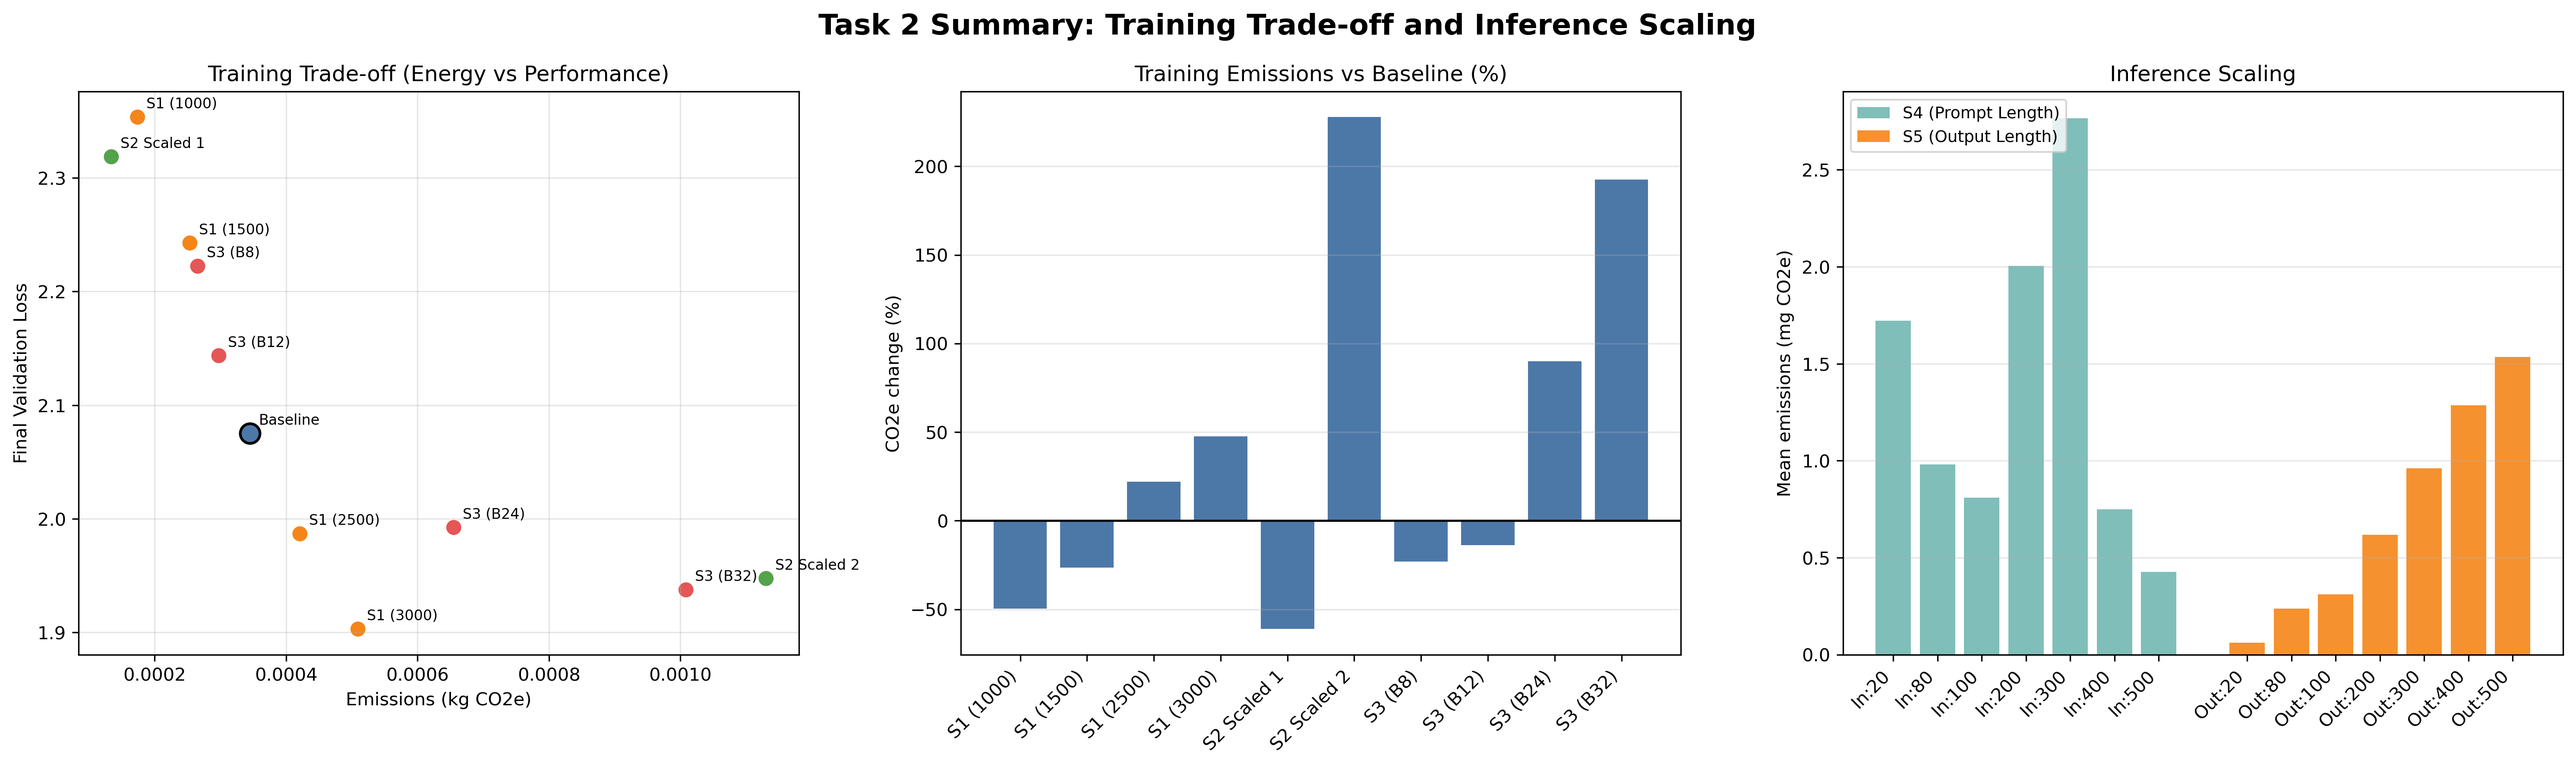
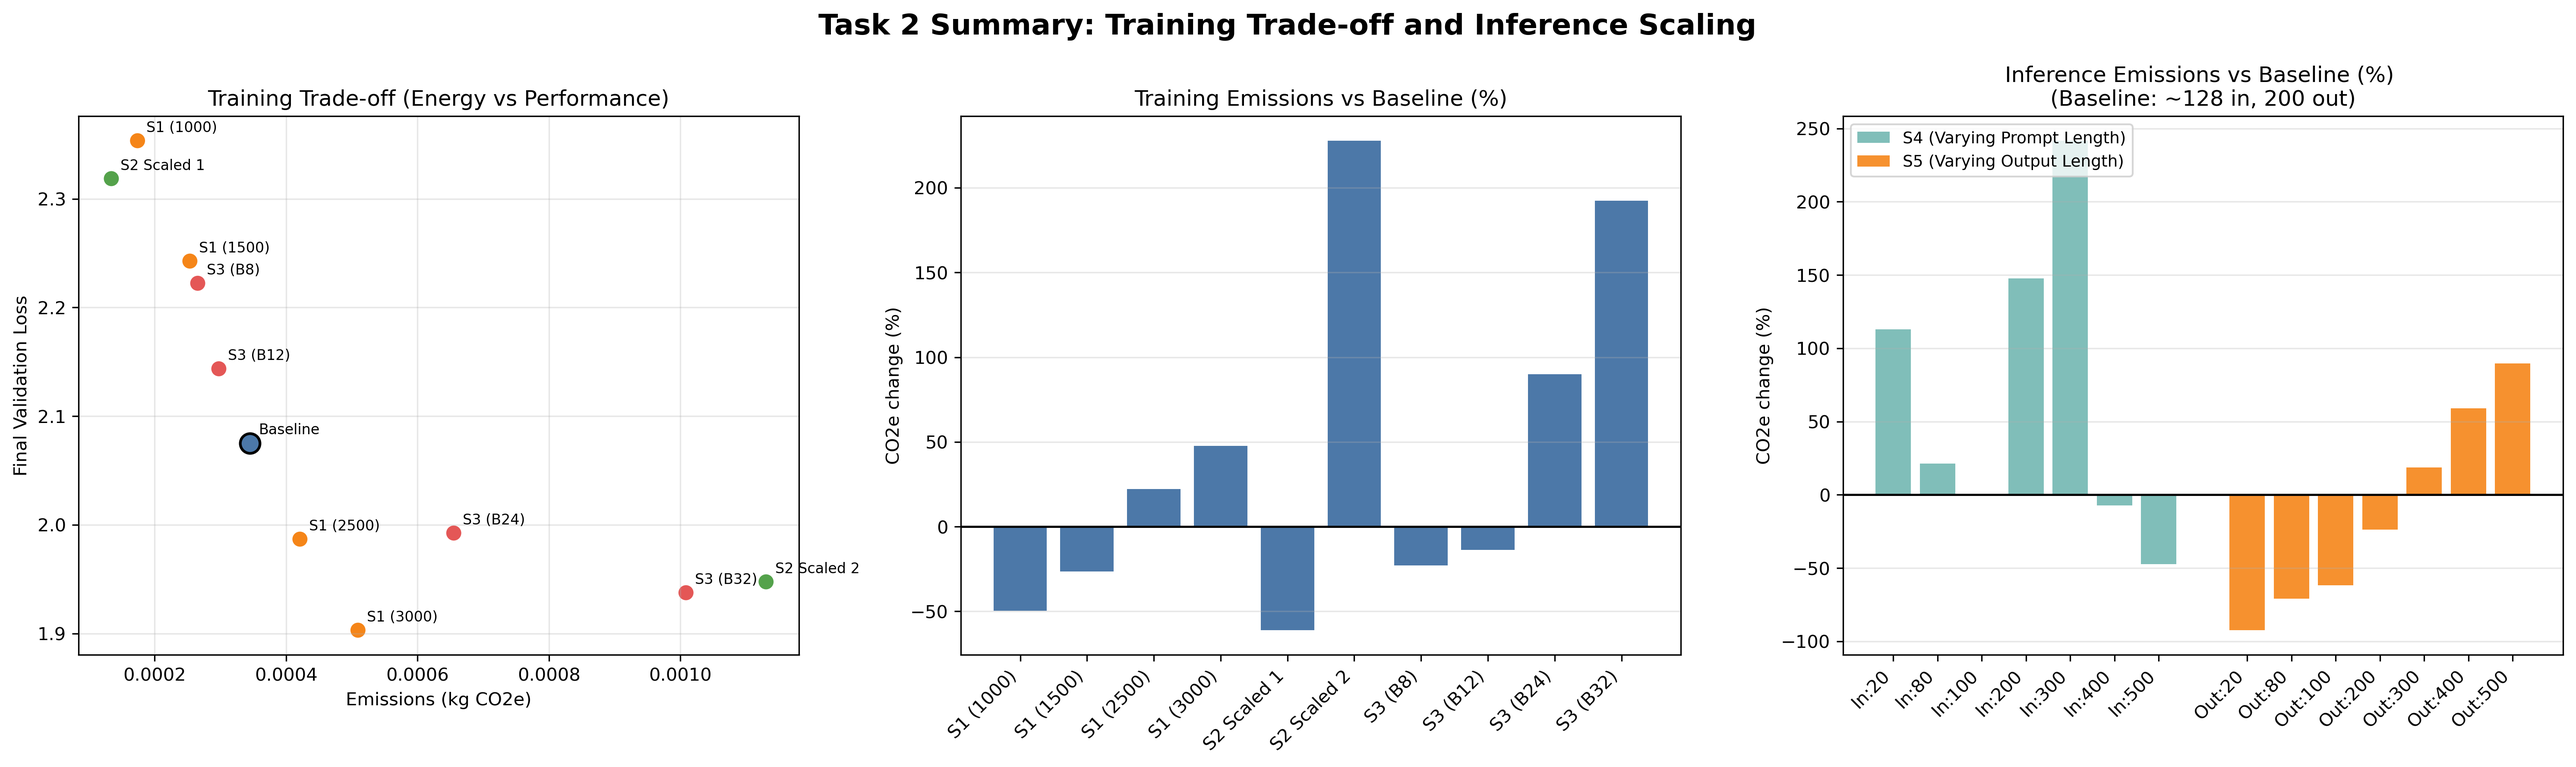
plots comparing with baseline

diff --git a/src/plot_results.py b/src/plot_results.py
@@ -124,12 +124,14 @@ def aggregate_inference(rows: List[dict], scenario_name: str, x_field: str) -> L
     return aggregates
 
 def make_plot(curves, metrics, scenario4, scenario5, output_img):
-    baseline = next((m for m in metrics if m.scenario == "baseline"), None)
+    baseline_train = next((m for m in metrics if m.scenario == "baseline"), None)
     
     fig, axes = plt.subplots(1, 3, figsize=(20, 6))
     fig.suptitle("Task 2 Summary: Training Trade-off and Inference Scaling", fontsize=16, fontweight='bold')
 
+    # ---------------------------------------------------------
     # 1) Training trade-off
+    # ---------------------------------------------------------
     ax = axes[0]
     metric_map = {m.scenario: m for m in metrics}
     for scenario in [s for s in SCENARIOS if s in metric_map]:
@@ -144,13 +146,15 @@ def make_plot(curves, metrics, scenario4, scenario5, output_img):
     ax.set_ylabel("Final Validation Loss")
     ax.grid(alpha=0.3)
 
+    # ---------------------------------------------------------
     # 2) Relative training change
+    # ---------------------------------------------------------
     ax = axes[1]
-    if baseline:
+    if baseline_train:
         labels, deltas = [], []
         for scenario in [s for s in SCENARIOS if s in metric_map and s != "baseline"]:
             labels.append(SCENARIO_LABELS[scenario])
-            deltas.append(100.0 * (metric_map[scenario].emissions_kg - baseline.emissions_kg) / baseline.emissions_kg)
+            deltas.append(100.0 * (metric_map[scenario].emissions_kg - baseline_train.emissions_kg) / baseline_train.emissions_kg)
         ax.bar(range(len(labels)), deltas, color="#4C78A8")
         ax.set_xticks(range(len(labels)))
         ax.set_xticklabels(labels, rotation=45, ha='right')
@@ -159,21 +163,33 @@ def make_plot(curves, metrics, scenario4, scenario5, output_img):
         ax.set_ylabel("CO2e change (%)")
         ax.grid(axis="y", alpha=0.3)
 
-    # 3) Inference scaling
+    # ---------------------------------------------------------
+    # 3) Relative Inference scaling
+    # ---------------------------------------------------------
     ax = axes[2]
     if scenario4 and scenario5:
+        # Finn Baseline Inference (Target: Input ~128, Output 200)
+        # S4 varierer input, har output 200. Vi finner punktet nærmest 128.
+        s4_closest_to_baseline = min(scenario4, key=lambda r: abs(r.x_value - 128))
+        baseline_inference_emissions = s4_closest_to_baseline.mean_emissions_kg
+
         x4 = [r.x_value for r in scenario4]
-        em4 = [r.mean_emissions_kg * 1_000_000 for r in scenario4] # Konvertert til mg
+        # Regn ut prosentvis forskjell fra baseline for S4
+        deltas4 = [100.0 * (r.mean_emissions_kg - baseline_inference_emissions) / baseline_inference_emissions for r in scenario4]
+        
         x5 = [r.x_value for r in scenario5]
-        em5 = [r.mean_emissions_kg * 1_000_000 for r in scenario5]
+        # Regn ut prosentvis forskjell fra baseline for S5
+        deltas5 = [100.0 * (r.mean_emissions_kg - baseline_inference_emissions) / baseline_inference_emissions for r in scenario5]
         
         pos4 = list(range(len(x4)))
         pos5 = [len(x4) + 1 + i for i in range(len(x5))]
 
-        ax.bar(pos4, em4, color="#72B7B2", alpha=0.9, label="S4 (Prompt Length)")
-        ax.bar(pos5, em5, color="#F58518", alpha=0.9, label="S5 (Output Length)")
-        ax.set_title("Inference Scaling")
-        ax.set_ylabel("Mean emissions (mg CO2e)")
+        ax.bar(pos4, deltas4, color="#72B7B2", alpha=0.9, label="S4 (Varying Prompt Length)")
+        ax.bar(pos5, deltas5, color="#F58518", alpha=0.9, label="S5 (Varying Output Length)")
+        
+        ax.axhline(0, color="black", linewidth=1.2)
+        ax.set_title(f"Inference Emissions vs Baseline (%) \n(Baseline: ~128 in, 200 out)")
+        ax.set_ylabel("CO2e change (%)")
         ax.grid(axis="y", alpha=0.3)
         ax.set_xticks(pos4 + pos5)
         ax.set_xticklabels([f"In:{v}" for v in x4] + [f"Out:{v}" for v in x5], rotation=45, ha='right')
